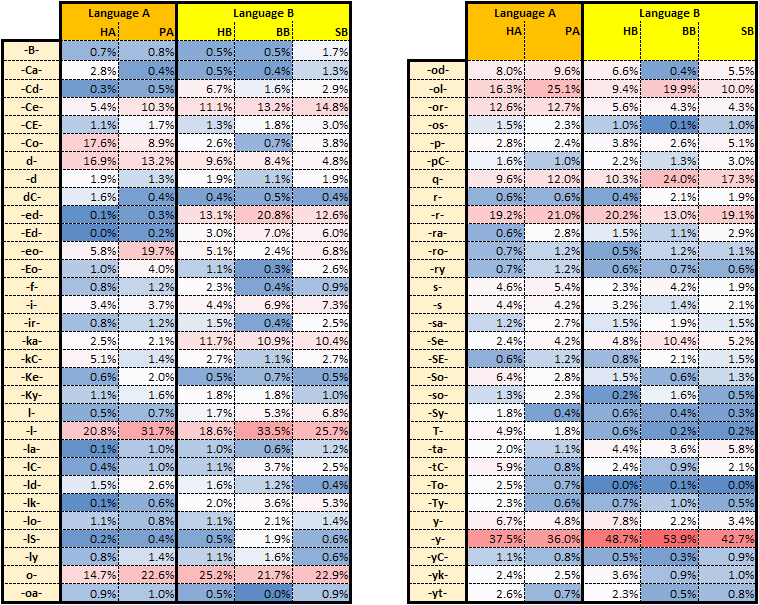
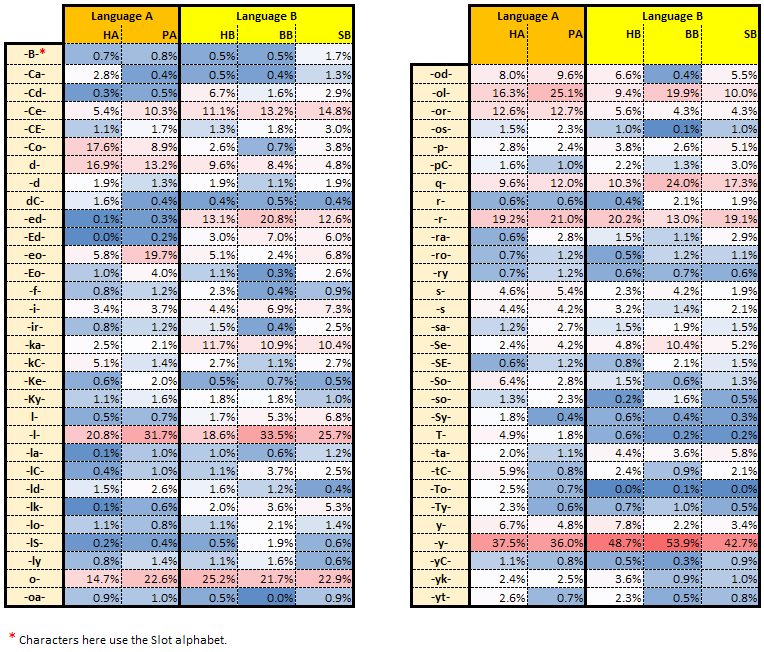
Note 010 initial draft

diff --git a/docs/010/index.md b/docs/010/index.md
@@ -1,0 +1,71 @@
+# Note 010 - On character distribution
+
+_Last updated Sep. 18th, 2022._
+
+_This note refers to [release v.12.0.0](https://github.com/mzattera/v4j/tree/v.12.0.0) of v4j;
+**links to classes and files refer to this release**; files might have been changed, deleted or moved in the current master branch.
+In addition, some of this note content might have become obsolete in more recent versions of the library._
+
+_Working notes are not providing detailed description of algorithms and classes used; for this, please refer to the 
+library code and JavaDoc._
+
+_Please refer to the [home page](..) for a set of definitions that might be relevant for this working note._
+
+[**<< Home**](..)
+
+---
+
+
+[note 008](../008)
+
+# Abstract
+
+It is known since the very beginning of Voynich studies, that the distribution of character across the pages has some statistical anomalies.
+This note looks into this, using for the first time the [Slot transcription](https://github.com/mzattera/v4j/blob/master/eclipse/io.github.mzattera.v4j/src/main/resources/Transcriptions/Interlinear_slot_ivtff_1.5.txt).
+
+**Unless differently indicated, the rest of this note uses the Slot alphabet when quoting Voynich text.**
+
+
+# Methodology
+
+In this note I will show the result of several experiments. In each experiment, the text of the Voynich is split into two groups, for example the initial lines of paragraphs are in one group whilst the 
+other lines are in the second group; the character distribution of the two groups is compared using a chi-squared test, if the test shows a statistically significative variation in character distribution,
+then each character is tested individually, to highlight a difference in distribution among the two groups. The experiments are done separately for each [cluster](../003); 
+a concordance version of the text is used; only text appearing in paragraphs is considered (IVTFF locus type = P0 or P1).
+
+The set of experiments is as follows:
+
+  * First line in page - all text appearing in first lines of pages is compared with the rest of the text.
+  * First line in paragraph - first lines of paragraphs is compared with the rest of the text.
+  * Last line in paragraph - all text appearing in last lines of paragraphs is compared with the rest of the text.
+  * First letter in a line - initial character of first word in a line is compared with initial characters of all other words.
+  * Last letter in a line - final character of last word in a line is compared with last characters of all other words.
+
+The results are shown in the below table[{1}](#Note1)[{2}](#Note2):
+
+![Summary table of anomalies in char distribution](images/SummaryTable.PNG)
+
+ 
+# Considerations and Comparison with Previous Works
+
+ 
+# Conclusions
+
+	
+---
+
+**Notes**
+
+<a id="Note1">**{1}**</a> Class [`TwoSamplesCharDistributionTest`](https://github.com/mzattera/v4j/blob/v.12.0.0/eclipse/io.github.mzattera.v4j-apps/src/main/java/io/github/mzattera/v4j/applications/chars/TwoSamplesCharDistributionTest.java) was used for this purpose.
+
+<a id="Note2">**{2}**</a> The  file `CharacterDistribution.xlsx` in [this folder](https://github.com/mzattera/v4j/blob/master/resources/analysis/char%20distribution) contains 
+detailed results of the analysis.
+
+
+---
+
+[**<< Home**](..)
+
+Copyright Massimiliano Zattera.
+
+<a rel="license" href="http://creativecommons.org/licenses/by-nc-sa/4.0/"><img alt="Creative Commons License" style="border-width:0" src="https://i.creativecommons.org/l/by-nc-sa/4.0/88x31.png" /></a><br />This work is licensed under a <a rel="license" href="http://creativecommons.org/licenses/by-nc-sa/4.0/">Creative Commons Attribution-NonCommercial-ShareAlike 4.0 International License</a>.
